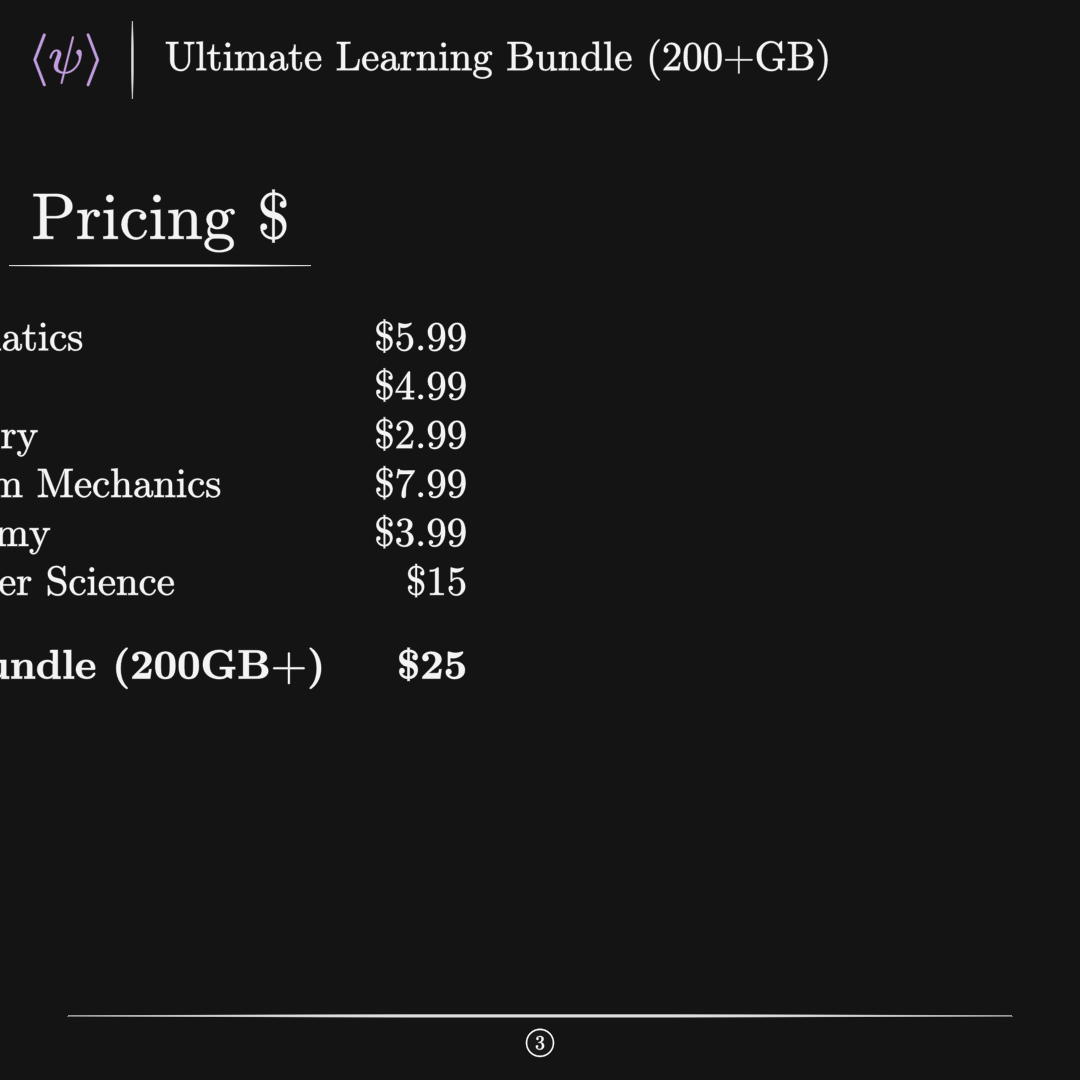
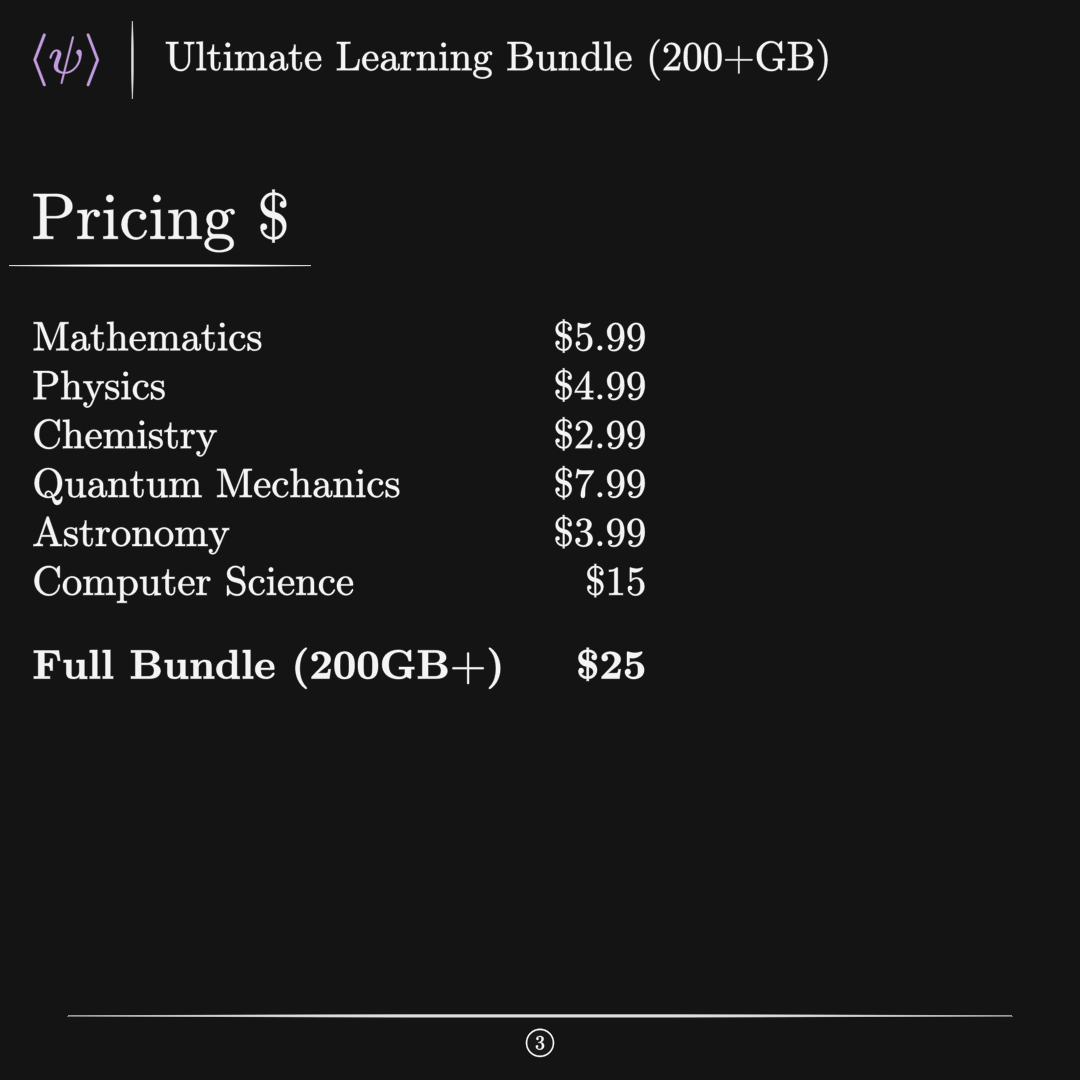
f

diff --git a/test.py b/test.py
@@ -142,5 +142,5 @@ class Pricing(PaidTemplate):
             \textbf{Full Bundle (200GB+)} & \textbf{\$25}
             \end{tabular}
             """, font_size=30)
-        pricing.next_to(price, DOWN, buff=MED_LARGE_BUFF)
+        pricing.next_to(price, DOWN, buff=MED_LARGE_BUFF, aligned_edge=LEFT)
         self.add(pricing)
